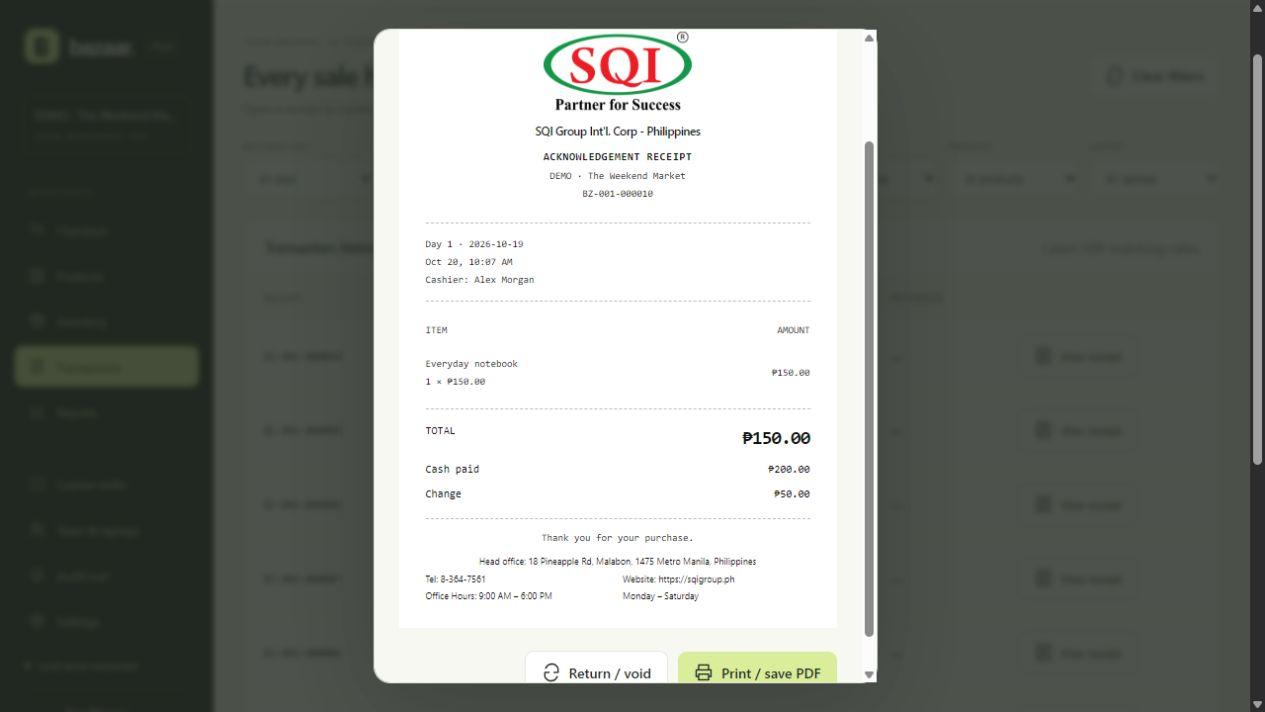
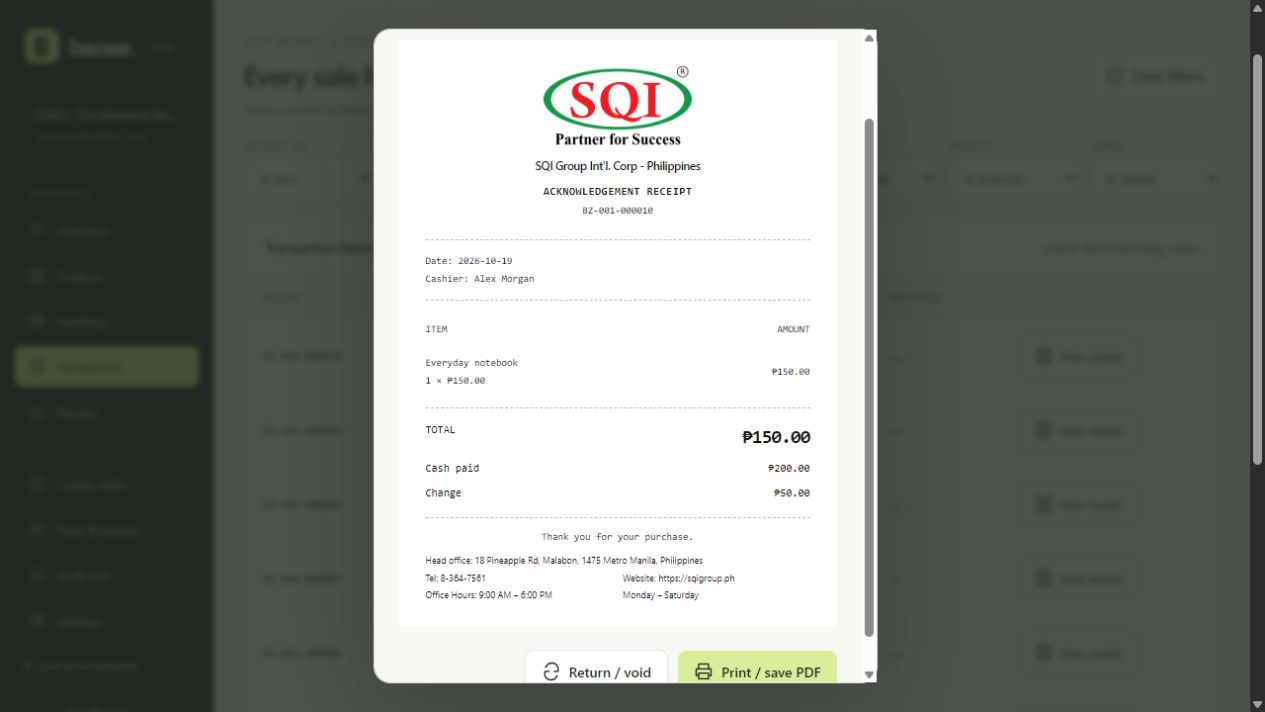
Simplify receipt date and name details and left-align address

diff --git a/static/app.css b/static/app.css
@@ -5,7 +5,7 @@
 .shell{display:grid;grid-template-columns:216px minmax(0,1fr);min-height:100vh}.sidebar{height:100vh;position:sticky;top:0;background:var(--ink);color:#d2d7cd;display:flex;flex-direction:column;padding:29px 15px 20px}.brand{display:flex;align-items:center;gap:10px;padding:0 10px;color:#fff;text-decoration:none;font-size:23px;font-weight:600;letter-spacing:-1px}.brand img{width:35px;height:35px}.brand small{font-size:10px;border:1px solid #56604f;border-radius:4px;padding:3px 5px;letter-spacing:1px;color:#b7c0ad;margin-left:3px}.workspace{margin:32px 8px 24px;border:1px solid #495044;border-radius:9px;padding:11px;font-size:12px}.workspace span{display:block;white-space:nowrap;text-overflow:ellipsis;overflow:hidden;margin-bottom:5px}.workspace small{color:#8d9b81;font-size:10px}.nav-label{font-size:9px;letter-spacing:1.6px;color:#8c9885;padding:0 14px;margin:8px 0 11px}.nav{display:flex;flex-direction:column;gap:5px}.nav button{display:flex;align-items:center;gap:12px;background:transparent;color:#b9c2b2;text-align:left;border-radius:8px;padding:12px 14px;font-size:12px}.nav button:hover{background:#343e31}.nav button.active{background:var(--green);color:var(--ink)}.nav .icon{width:17px;height:17px}.nav-gap{height:22px}.side-foot{margin-top:auto;padding:18px 10px 0}.local-status{font-size:10px;display:flex;align-items:center;gap:7px;color:#b6c49f;margin-bottom:17px}.side-user{display:flex;align-items:center;gap:9px;padding-top:15px;border-top:1px solid #424b3b}.avatar{display:flex;align-items:center;justify-content:center;border-radius:50%;background:#e5ebd9;color:#4d5b3e;font-weight:600;font-size:12px;width:32px;height:32px;flex-shrink:0}.side-user .avatar{background:#424b3b;color:#d9ed9a}.side-user strong{display:block;font-size:11px;font-weight:500}.side-user small{font-size:10px;color:#8e9a84}.side-user .icon-btn{margin-left:auto;color:#9da991}.main{min-width:0}.topbar{height:72px;display:flex;align-items:center;justify-content:space-between;border-bottom:1px solid var(--line);padding:0 30px;background:#fff9}.breadcrumb{font-size:11px;color:var(--muted);display:flex;align-items:center;gap:10px}.breadcrumb b{color:var(--ink);font-weight:500}.top-right{display:flex;align-items:center;gap:16px;font-size:11px}.top-right .pill{padding:6px 10px}.top-right .icon{width:15px;height:15px}.page{padding:29px 30px}.page-heading{display:flex;align-items:center;justify-content:space-between;margin-bottom:25px;gap:16px}.page-heading p{color:var(--muted);font-size:12px;margin-top:7px}.actions{display:flex;align-items:center;gap:9px}.eyebrow{font-size:9px;letter-spacing:1.7px;text-transform:uppercase;color:var(--muted);margin-bottom:9px}.checkout-layout{display:grid;grid-template-columns:minmax(0,1fr) 338px;gap:23px;align-items:start}.shop-panel{min-width:0}.search-row{display:flex;gap:10px;margin-bottom:18px}.search{position:relative;flex:1}.search .icon{position:absolute;left:13px;top:12px;width:17px;height:17px;color:#90988a}.search input{padding-left:39px;padding-right:48px;height:43px;font-size:12px}.search kbd{position:absolute;right:13px;top:13px;font-size:10px;color:#a1a59a;border:1px solid var(--line);border-radius:3px;padding:1px 5px}.category-tabs{display:flex;gap:8px;overflow:auto;padding-bottom:5px;margin-bottom:21px}.category-tabs button{padding:8px 14px;border-radius:7px;white-space:nowrap;background:white;border:1px solid var(--line);font-size:11px;color:#737b6c}.category-tabs button.active{background:var(--ink);border-color:var(--ink);color:white}.category-tabs button span{font-size:10px;margin-left:7px;color:#9da98d}.section-line{display:flex;justify-content:space-between;align-items:center;font-size:11px;margin-bottom:13px}.section-line strong{font-size:12px;font-weight:500}.section-line span{color:var(--muted);font-size:10px}.product-grid{display:grid;grid-template-columns:repeat(3,minmax(0,1fr));gap:13px}.product-card{text-align:left;background:#fff;border:1px solid var(--line);border-radius:12px;padding:9px;transition:transform .15s,border-color .15s;position:relative;min-width:0}.product-card:hover{border-color:#99ac7d;transform:translateY(-2px)}.product-card.sold-out{opacity:.55}.product-visual{height:134px;background:var(--tile,#f0eee3);border-radius:7px;display:flex;align-items:center;justify-content:center;overflow:hidden;position:relative}.product-visual img{width:100%;height:100%;object-fit:cover}.product-visual>.icon{width:65px;height:65px;stroke-width:1;color:#777f5c;filter:drop-shadow(0 6px 2px #0001)}.stock-badge{position:absolute;top:7px;left:7px;background:#ffffffdc;border-radius:4px;padding:4px 6px;font-size:9px;color:#64734e}.stock-badge.low{color:#a25c34}.product-detail{padding:11px 3px 3px}.product-detail .eyebrow{font-size:8px;letter-spacing:1px;margin-bottom:5px}.product-detail h3{font-size:11px;font-weight:500;line-height:1.4;overflow:hidden;text-overflow:ellipsis;white-space:nowrap}.product-bottom{display:flex;align-items:center;justify-content:space-between;margin-top:12px}.product-bottom strong{font-size:13px;font-weight:600}.product-bottom small{font-size:9px;color:var(--muted);font-weight:400}.add-badge{width:25px;height:25px;background:#f2f6e9;border:1px solid #e2eacc;border-radius:6px;display:flex;align-items:center;justify-content:center;color:#6c7a54;font-size:19px;font-weight:300}.stock-note{font-size:10px;color:var(--muted);margin-top:19px;display:flex;align-items:center;gap:7px}.stock-note .icon{width:13px;height:13px}.cart{background:white;border:1px solid var(--line);border-radius:13px;overflow:hidden;position:sticky;top:20px}.cart-header{padding:19px;display:flex;align-items:center;justify-content:space-between;border-bottom:1px solid var(--line)}.cart-header h2{font-size:16px;display:flex;align-items:center;gap:8px}.count-bubble{font-size:10px;font-weight:500;background:#f0f2e9;border-radius:5px;padding:4px 6px}.cart-ticket{padding:12px 19px;background:#fcfcf9;border-bottom:1px dashed var(--line);display:flex;align-items:center;justify-content:space-between;font-size:10px;color:var(--muted)}.cart-lines{padding:2px 18px;min-height:210px;max-height:380px;overflow:auto}.cart-line{padding:17px 0;border-bottom:1px solid #f0f1ec;display:grid;grid-template-columns:40px 1fr auto;gap:10px;align-items:start}.cart-line:last-child{border:0}.cart-thumb{width:40px;height:43px;display:flex;align-items:center;justify-content:center;border-radius:6px;background:#f1f0e6;overflow:hidden;color:#7e8868}.cart-thumb img{width:100%;height:100%;object-fit:cover}.cart-line h3{font-size:11px;font-weight:500;line-height:1.45}.cart-line small{font-size:9px;color:var(--muted)}.cart-line>strong{font-size:11px;font-weight:500;margin-top:2px}.qty-control{display:inline-flex;align-items:center;border:1px solid var(--line);border-radius:5px;margin-top:9px;height:24px}.qty-control button{width:24px;height:22px;background:transparent;color:#7a846d;font-size:15px}.qty-control span{min-width:24px;text-align:center;font-size:10px}.cart-empty{display:flex;align-items:center;flex-direction:column;justify-content:center;min-height:245px;text-align:center;gap:12px;color:var(--muted)}.cart-empty>.icon{width:36px;height:36px;stroke-width:1}.cart-empty p{font-size:11px;max-width:180px;line-height:1.7}.cart-summary{padding:19px;background:#fcfcf9;border-top:1px solid var(--line)}.sum-row{display:flex;justify-content:space-between;font-size:11px;color:var(--muted);margin-bottom:12px}.sum-row.total{padding-top:16px;border-top:1px dashed #dbe0d0;margin-top:15px;margin-bottom:20px;color:var(--ink);font-size:13px}.sum-row.total strong{font-size:23px;letter-spacing:-.7px;font-weight:600}.cart-summary .btn{width:100%;height:45px;font-size:12px;justify-content:space-between}.cart-summary .btn .icon{width:17px;height:17px}.cart-foot{text-align:center;color:#969d8c;font-size:9px;padding:13px 5px;border-top:1px solid var(--line)}.notice{border:1px solid #e4dfbe;background:#f9f5e5;border-radius:10px;padding:14px 17px;font-size:12px;color:#786936;line-height:1.7;display:flex;gap:12px;align-items:center;margin-bottom:20px}.notice .actions{margin-left:auto}.notice .btn{font-size:11px}.notice.error{border-color:#edd3cb;background:#fff1ed;color:#9a493a}.notice.good{background:#f0f6e4;border-color:#dfe8d0;color:#52683b}.stats{display:grid;grid-template-columns:repeat(4,minmax(0,1fr));gap:16px;margin-bottom:24px}.stat{background:white;border:1px solid var(--line);border-radius:12px;padding:19px 20px}.stat label{font-size:11px;color:var(--muted);display:flex;align-items:center;justify-content:space-between}.stat .value{font-size:27px;letter-spacing:-.7px;margin-top:13px;font-weight:500}.stat small{display:block;font-size:10px;color:var(--muted);margin-top:8px}.stat.featured{background:var(--green);border-color:var(--green)}.stat.featured label,.stat.featured small{color:#596a3c}.panel{background:white;border:1px solid var(--line);border-radius:13px;overflow:hidden;margin-bottom:20px}.panel-title{padding:19px 21px;display:flex;align-items:center;justify-content:space-between;border-bottom:1px solid var(--line)}.panel-title h2{font-size:15px}.panel-body{padding:21px}.table-scroll{overflow:auto}table{width:100%;border-collapse:collapse;text-align:left;font-size:11px;white-space:nowrap}th{text-transform:uppercase;letter-spacing:.8px;font-size:9px;font-weight:500;color:var(--muted);background:#fafbf7}th,td{padding:15px 20px;border-bottom:1px solid #edf0e7}tbody tr:last-child td{border-bottom:0}tbody tr:hover{background:#fcfdf9}td strong{font-weight:500}.right{text-align:right}.table-product{display:flex;align-items:center;gap:10px}.table-product small{display:block;font-size:9px;color:var(--muted);margin-top:4px}.filters{display:flex;gap:10px;flex-wrap:wrap;margin-bottom:20px}.filters>*{flex:1;min-width:120px;max-width:220px}.filters input,.filters select{font-size:11px;height:40px}.filters label{display:flex;flex-direction:column;gap:6px;color:var(--muted);font-size:9px;text-transform:uppercase;letter-spacing:.7px}.two-col{display:grid;grid-template-columns:1fr 1fr;gap:20px}.empty{padding:55px 22px;text-align:center;color:var(--muted);font-size:12px;line-height:1.9}.empty .icon{width:31px;height:31px;margin-bottom:10px}.empty h3{color:var(--ink);margin-bottom:7px;font-size:14px}.empty .btn{margin-top:16px}.chart-row{display:grid;grid-template-columns:135px 1fr 90px;align-items:center;gap:15px;margin-bottom:18px;font-size:11px}.chart-row label{overflow:hidden;white-space:nowrap;text-overflow:ellipsis}.bar{height:7px;border-radius:5px;background:#f0f3e9;overflow:hidden}.bar>span{display:block;background:#b0c77b;border-radius:5px;height:100%}.chart-row strong{text-align:right;font-weight:500}.list-note{font-size:10px;color:var(--muted);padding:13px 20px;border-top:1px solid var(--line)}.stack{display:grid;gap:14px}.setting-row{display:flex;justify-content:space-between;align-items:center;border-bottom:1px solid var(--line);padding:17px 0;gap:20px}.setting-row:first-child{padding-top:0}.setting-row:last-child{border:0;padding-bottom:0}.setting-row h3{font-size:12px;margin-bottom:6px}.setting-row p{font-size:11px;color:var(--muted);line-height:1.6}.audit-reason{white-space:normal;max-width:250px;line-height:1.5}
 .auth{display:grid;grid-template-columns:42% 58%;min-height:100vh}.auth-story{background:var(--ink);color:white;padding:45px;display:flex;flex-direction:column;position:relative;overflow:hidden}.auth-story .brand{padding:0}.auth-title{margin:auto 0;z-index:1}.auth-title .eyebrow{color:#c1cfab;font-size:10px}.auth-title h1{font-size:52px;line-height:1.08;letter-spacing:-2.5px;font-weight:400;max-width:410px}.auth-title h1 em{color:var(--green);font-style:normal}.auth-title p{font-size:13px;color:#b1bba5;line-height:1.9;max-width:310px;margin-top:25px}.auth-foot{font-size:10px;color:#94a585;display:flex;align-items:center;gap:8px}.auth-circle{width:320px;height:320px;position:absolute;right:-100px;bottom:15px;border:1px solid #596543;border-radius:50%}.auth-circle:after{content:'';position:absolute;inset:35px;border:1px solid #596543;border-radius:50%}.auth-form{align-self:center;width:min(430px,85%);margin:40px auto}.auth-form h2{font-size:28px;letter-spacing:-.9px;margin-bottom:10px}.auth-form>p{color:var(--muted);font-size:12px;line-height:1.7;margin-bottom:26px}.form-grid{display:grid;grid-template-columns:1fr 1fr;gap:16px}.field{display:flex;flex-direction:column;gap:7px;font-size:11px}.field.full{grid-column:1/-1}.field label{font-weight:500}.field small{font-size:10px;color:var(--muted);line-height:1.5}.field input,.field select,.field textarea{font-size:12px}.check-field{display:flex;align-items:center;gap:9px;font-size:12px}.check-field input{width:15px;height:15px}.form-error{color:var(--red);font-size:12px;line-height:1.6;min-height:5px;grid-column:1/-1}.auth-form .btn{width:100%;margin-top:8px}.auth-note{font-size:10px;color:#8f9786;text-align:center;margin-top:20px}.modal-overlay{position:fixed;inset:0;z-index:40;background:#20271fcc;backdrop-filter:blur(3px);display:flex;align-items:center;justify-content:center;padding:25px}.modal{width:min(510px,100%);background:var(--paper);border:1px solid #e0e5d5;border-radius:17px;max-height:92vh;overflow:auto;box-shadow:0 25px 100px #0003}.modal.wide{width:min(740px,100%)}.modal-head{display:flex;justify-content:space-between;align-items:center;padding:22px 25px;border-bottom:1px solid var(--line)}.modal-head h2{font-size:19px}.modal-body{padding:24px 25px}.modal-actions{display:flex;align-items:center;justify-content:flex-end;gap:10px;margin-top:23px;grid-column:1/-1}.payment-total{text-align:center;border-bottom:1px dashed #d7ddcd;padding:0 0 22px;margin-bottom:24px}.payment-total small{color:var(--muted);font-size:11px}.payment-total strong{display:block;font-size:44px;font-weight:500;letter-spacing:-1.5px;margin-top:9px}.change-line{display:flex;justify-content:space-between;background:#eef4e3;padding:17px;border-radius:9px;font-size:13px;grid-column:1/-1}.quick-cash{display:flex;gap:8px;grid-column:1/-1}.quick-cash button{flex:1;border:1px solid var(--line);border-radius:7px;padding:9px 4px;background:white;font-size:10px}.receipt-content{background:white;padding:27px;font:12px/1.8 Consolas,monospace;color:#111}.receipt-content h2{text-align:center;font-size:20px;line-height:1.4}.receipt-content p{text-align:center;font-size:10px}.receipt-meta{border-top:1px dashed #bbb;border-bottom:1px dashed #bbb;margin:20px 0 12px;padding:12px 0;font-size:10px}.receipt-content table{font-size:10px;white-space:normal}.receipt-content td,.receipt-content th{padding:8px 0;border:0;background:white;color:#111;letter-spacing:0;font-size:10px}.receipt-content .sum-row{color:#111;margin:5px 0;font-size:11px}.receipt-content .sum-row.total{margin-top:10px;padding-top:12px;border-color:#bbb}.receipt-content .sum-row.total strong{font-size:19px}.receipt-thanks{text-align:center;font-size:10px;margin-top:23px;border-top:1px dashed #bbb;padding-top:15px}.refund-line{padding:15px 0;border-bottom:1px solid var(--line);display:grid;grid-template-columns:1fr 75px 75px;gap:12px;align-items:center;font-size:11px}.refund-line input{padding:8px}.refund-line small{display:block;font-size:9px;color:var(--muted);margin-top:5px}#toast{position:fixed;bottom:25px;left:50%;transform:translateX(-50%);background:var(--ink);color:white;border-radius:10px;padding:13px 20px;font-size:12px;box-shadow:0 5px 20px #0002;z-index:60;max-width:80vw;display:none}#toast.show{display:block}#toast.error{background:#9c4437}.mobile-brand{display:none}.connection-banner{background:#fff0e8;color:#9b5234;padding:9px 30px;font-size:11px;border-bottom:1px solid #f0dbcd}.no-results{grid-column:1/-1}.image-preview{width:80px;height:80px;object-fit:cover;border-radius:9px;border:1px solid var(--line)}
 @media(min-width:1500px){.product-grid{grid-template-columns:repeat(4,minmax(0,1fr))}.product-visual{height:160px}.page{padding:34px 40px}.checkout-layout{grid-template-columns:minmax(0,1fr) 370px;gap:30px}}
-.receipt-company{text-align:center;font-family:Inter,"Segoe UI",Arial,sans-serif;break-inside:avoid;margin-top:8px}.receipt-logo{display:block;width:150px;max-width:65%;height:auto;margin:0 auto 8px;object-fit:contain}.receipt-company-header{text-align:center;font-family:Inter,"Segoe UI",Arial,sans-serif;break-inside:avoid}.receipt-company-header h2{font-size:12px;line-height:1.4;font-weight:600;margin:0}.receipt-company p{font-size:9px;line-height:1.4;overflow-wrap:anywhere}.receipt-company a{text-decoration:none}.receipt-heading{margin-top:8px}.receipt-content .receipt-title{font-size:11px;font-weight:700;letter-spacing:.5px}.receipt-company-grid{display:grid;grid-template-columns:repeat(2,minmax(0,1fr));gap:4px 10px;margin-top:6px;text-align:left;font-size:9px;line-height:1.4}.receipt-company-grid>span{min-width:0;overflow-wrap:anywhere}.receipt-thanks{margin-top:14px;padding-top:10px}.receipt-content .sum-row,.receipt-thanks{break-inside:avoid}.receipt-content td{overflow-wrap:anywhere}.receipt-content td.right{white-space:nowrap;padding-left:10px}
+.receipt-company{text-align:center;font-family:Inter,"Segoe UI",Arial,sans-serif;break-inside:avoid;margin-top:8px}.receipt-logo{display:block;width:150px;max-width:65%;height:auto;margin:0 auto 8px;object-fit:contain}.receipt-company-header{text-align:center;font-family:Inter,"Segoe UI",Arial,sans-serif;break-inside:avoid}.receipt-company-header h2{font-size:12px;line-height:1.4;font-weight:600;margin:0}.receipt-company p{text-align:left;font-size:9px;line-height:1.4;overflow-wrap:anywhere}.receipt-company a{text-decoration:none}.receipt-heading{margin-top:8px}.receipt-content .receipt-title{font-size:11px;font-weight:700;letter-spacing:.5px}.receipt-company-grid{display:grid;grid-template-columns:repeat(2,minmax(0,1fr));gap:4px 10px;margin-top:6px;text-align:left;font-size:9px;line-height:1.4}.receipt-company-grid>span{min-width:0;overflow-wrap:anywhere}.receipt-thanks{margin-top:14px;padding-top:10px}.receipt-content .sum-row,.receipt-thanks{break-inside:avoid}.receipt-content td{overflow-wrap:anywhere}.receipt-content td.right{white-space:nowrap;padding-left:10px}
 .cart-lines{min-height:140px;max-height:clamp(140px,calc(100vh - 570px),360px)}.cart-empty{min-height:140px}
 @media(max-width:1150px){.shell{grid-template-columns:180px minmax(0,1fr)}.sidebar{padding-left:10px;padding-right:10px}.page{padding:25px 22px}.topbar{padding:0 22px}.checkout-layout{grid-template-columns:minmax(0,1fr) 300px;gap:17px}.product-grid{grid-template-columns:repeat(2,minmax(0,1fr))}.product-visual{height:125px}.stats{gap:10px}.stat{padding:16px}.stat .value{font-size:22px}.top-right{gap:9px}}
 @media(max-width:850px){.shell{grid-template-columns:68px minmax(0,1fr)}.sidebar{padding:23px 9px}.brand{padding:0;justify-content:center}.brand>span,.brand>small,.workspace,.nav-label,.nav button>span,.side-user>div:not(.avatar),.side-user>.icon-btn,.local-status,.side-foot>small{display:none}.nav{margin-top:30px}.nav button{padding:13px;justify-content:center}.nav-gap{height:0}.side-foot{padding:15px 7px}.side-user{padding-top:15px}.side-user .avatar{width:30px;height:30px}.top-right .date-label{display:none}.checkout-layout{grid-template-columns:minmax(0,1fr) 285px}.page{padding:23px 18px}.page-heading{align-items:flex-start}.page-heading h1{font-size:24px}.page-heading>.actions .btn{font-size:11px}.two-col{grid-template-columns:1fr}.stats{grid-template-columns:repeat(2,minmax(0,1fr))}.auth-story{padding:30px}.auth-title h1{font-size:39px}.auth{grid-template-columns:38% 62%}}

diff --git a/static/app.js b/static/app.js
@@ -192,7 +192,7 @@ function receiptCompanyHeader(){return `<header class="receipt-company-header"><
 function receiptCompanyFooter(){return `<footer class="receipt-company"><p>Head office: 18 Pineapple Rd, Malabon, 1475 Metro Manila, Philippines</p><div class="receipt-company-grid"><span>Tel: 8-364-7561</span><span>Website: <a href="https://sqigroup.ph" target="_blank" rel="noopener noreferrer">https://sqigroup.ph</a></span><span>Office Hours: 9:00 AM – 6:00 PM</span><span>Monday – Saturday</span></div></footer>`;}
 async function showReceipt(sid){
   const r=await api('/sales/'+sid);currentReceipt=r;const s=r.sale,p=r.payment;
-  modal('Acknowledgement receipt',`<div class="receipt-content">${receiptCompanyHeader()}<div class="receipt-heading"><p class="receipt-title">ACKNOWLEDGEMENT RECEIPT</p><p>${e(s.bazaar_name)}</p><p>${e(s.receipt_number)}</p></div><div class="receipt-meta">Day ${s.day_number} · ${e(s.business_date)}<br>${e(timestamp(s.completed_at))}<br>Cashier: ${e(s.display_name)}</div><table><thead><tr><th>ITEM</th><th class="right">AMOUNT</th></tr></thead><tbody>${r.lines.map(l=>`<tr><td>${e(l.description_snapshot)}<br>${l.quantity} × ${money(l.unit_price_minor)}</td><td class="right">${money(l.line_total_minor)}</td></tr>`).join('')}</tbody></table><div class="sum-row total"><span>TOTAL</span><strong>${money(s.total_minor)}</strong></div><div class="sum-row"><span>Cash paid</span><span>${money(p.tendered_minor)}</span></div><div class="sum-row"><span>Change</span><span>${money(p.change_minor)}</span></div><div class="receipt-thanks">Thank you for your purchase.</div>${receiptCompanyFooter()}</div>${r.corrections.length?`<div class="receipt-extra notice">${r.corrections.length} correction(s) linked · ${money(r.corrections.reduce((a,c)=>a+c.refund_total_minor,0))} refunded</div>`:''}<div class="modal-actions">${S.user.role==='manager'?button('Return / void','return-sale','light','refresh',`data-id="${sid}"`):''}${button('Print / save PDF','print-receipt','green','print',`data-id="${sid}"`)}</div>`);currentReceipt=r;
+  modal('Acknowledgement receipt',`<div class="receipt-content">${receiptCompanyHeader()}<div class="receipt-heading"><p class="receipt-title">ACKNOWLEDGEMENT RECEIPT</p><p>${e(s.receipt_number)}</p></div><div class="receipt-meta">Date: ${e(s.business_date)}<br>Cashier: ${e(s.display_name)}</div><table><thead><tr><th>ITEM</th><th class="right">AMOUNT</th></tr></thead><tbody>${r.lines.map(l=>`<tr><td>${e(l.description_snapshot)}<br>${l.quantity} × ${money(l.unit_price_minor)}</td><td class="right">${money(l.line_total_minor)}</td></tr>`).join('')}</tbody></table><div class="sum-row total"><span>TOTAL</span><strong>${money(s.total_minor)}</strong></div><div class="sum-row"><span>Cash paid</span><span>${money(p.tendered_minor)}</span></div><div class="sum-row"><span>Change</span><span>${money(p.change_minor)}</span></div><div class="receipt-thanks">Thank you for your purchase.</div>${receiptCompanyFooter()}</div>${r.corrections.length?`<div class="receipt-extra notice">${r.corrections.length} correction(s) linked · ${money(r.corrections.reduce((a,c)=>a+c.refund_total_minor,0))} refunded</div>`:''}<div class="modal-actions">${S.user.role==='manager'?button('Return / void','return-sale','light','refresh',`data-id="${sid}"`):''}${button('Print / save PDF','print-receipt','green','print',`data-id="${sid}"`)}</div>`);currentReceipt=r;
   await $('.receipt-logo').decode().catch(()=>{});
 }
 function openDay(){const today=new Intl.DateTimeFormat('en-CA',{timeZone:S.bazaar.timezone,year:'numeric',month:'2-digit',day:'2-digit'}).format(new Date());formModal('Open the next bazaar day',field('Business date','business_date','date',today,'required')+approval(),async data=>{await api('/days/open','POST',data);closeModal();await boot();toast('The bazaar day is open.');},'Open day');}

diff --git a/docs/operations.md b/docs/operations.md
@@ -49,7 +49,7 @@ Use one ticket per physical customer purchase. One ticket can produce only one s
 
 ### Acknowledgement receipt branding
 
-Receipts and their print/PDF layout show the supplied SQI logo at the top, with **SQI Group Int'l. Corp - Philippines** directly beneath it. A compact footer below the totals shows head office **18 Pineapple Rd, Malabon, 1475 Metro Manila, Philippines**, followed by two aligned columns: telephone **8-364-7561** beside **Website: https://sqigroup.ph**, then **Office Hours: 9:00 AM – 6:00 PM** beside **Monday – Saturday**. The bazaar name, receipt number, day, cashier, items, totals, cash, and change remain on each receipt.
+Receipts and their print/PDF layout show the supplied SQI logo at the top, with **SQI Group Int'l. Corp - Philippines** directly beneath it. A compact footer below the totals shows head office **18 Pineapple Rd, Malabon, 1475 Metro Manila, Philippines**, followed by two aligned columns: telephone **8-364-7561** beside **Website: https://sqigroup.ph**, then **Office Hours: 9:00 AM – 6:00 PM** beside **Monday – Saturday**. The receipt number sits directly below ACKNOWLEDGEMENT RECEIPT, without the extra bazaar/name line. Receipt details show one business date (without Day 1 or a repeated timestamp), cashier, items, totals, cash, and change. The head office address is left-aligned with the footer columns.
 
 The logo is bundled at `static/sqi-logo.png`, so displaying or printing it needs no connection to the source network share or internet. The same receipt layout is used when viewing saved receipts and requesting a print/PDF copy. Printing waits for the logo image to decode. Check the final paper layout on the actual receipt printer.
 

diff --git a/docs/verification.md b/docs/verification.md
@@ -58,7 +58,7 @@ Also checked the stock movement form: **Stock in** and **Opening stock** label t
 
 On 2026-10-20, checked SQI receipt branding against saved demo receipt `BZ-001-000010`. The supplied local PNG loaded at its original 5442 × 3064 resolution and displayed at 150 px wide. Verified the company name directly below the logo, full head office address in the footer, and a two-column footer grid: telephone / website on row one and office hours / Monday–Saturday on row two. The dialog opens at the logo. Verified the visible label `Website: https://sqigroup.ph` and its HTTPS destination. The production host served the logo successfully with HTTP 200. JavaScript syntax and whitespace checks passed. These presentation changes did not rerun the 27-test integration suite recorded above.
 
-The logo header and compact company footer are inside the same receipt content used by the existing 80 mm print stylesheet. Actual printer/PDF pagination remains an equipment check.
+The logo header and compact company footer are inside the same receipt content used by the existing 80 mm print stylesheet. Also verified the simplified receipt: the extra bazaar/name line under ACKNOWLEDGEMENT RECEIPT is absent, the metadata shows one business date without a Day number or repeated timestamp, and the head office address is left-aligned with the first footer column. The explicitly labeled Cashier line remains in the metadata. These display changes do not alter stored transaction dates or stock. Actual printer/PDF pagination remains an equipment check.
 
 ![SQI acknowledgement receipt header](screenshots/sqi-receipt.png)
 

diff --git a/docs/pos-plan.md b/docs/pos-plan.md
@@ -50,7 +50,7 @@ One ticket has one owner and laptop at a time, and each cashier can have one ope
 
 ## Receipts, corrections, and cash
 
-Receipts show a unique receipt number, bazaar day, host date/time, cashier, item descriptions, quantities, prices, discounts/tax if applicable, total, payment, and change. A printing failure does not create another sale. Printing/reprinting uses the existing sale and records the user, laptop, time, and automatic reason `Customer copy`, without asking the cashier for a reason. PDFs may be offered alongside printer output.
+Receipts show a unique receipt number, business date, cashier, item descriptions, quantities, prices, discounts/tax if applicable, total, payment, and change. The printed layout omits the extra bazaar/name line, day number, and repeated timestamp; the database retains the full transaction day and timestamp. A printing failure does not create another sale. Printing/reprinting uses the existing sale and records the user, laptop, time, and automatic reason `Customer copy`, without asking the cashier for a reason. PDFs may be offered alongside printer output.
 
 Completed sales and movements are not deleted or edited. Voids and returns create linked correction rows with reason, actor, and manager approval. Returned quantity cannot exceed the unreturned quantity on the original sale line. Restocking is explicit; a damaged return need not increase sellable stock. Refund payments appear on the day and shift when paid. Non-sale cash in/out movements also require a reason and approval.
 
